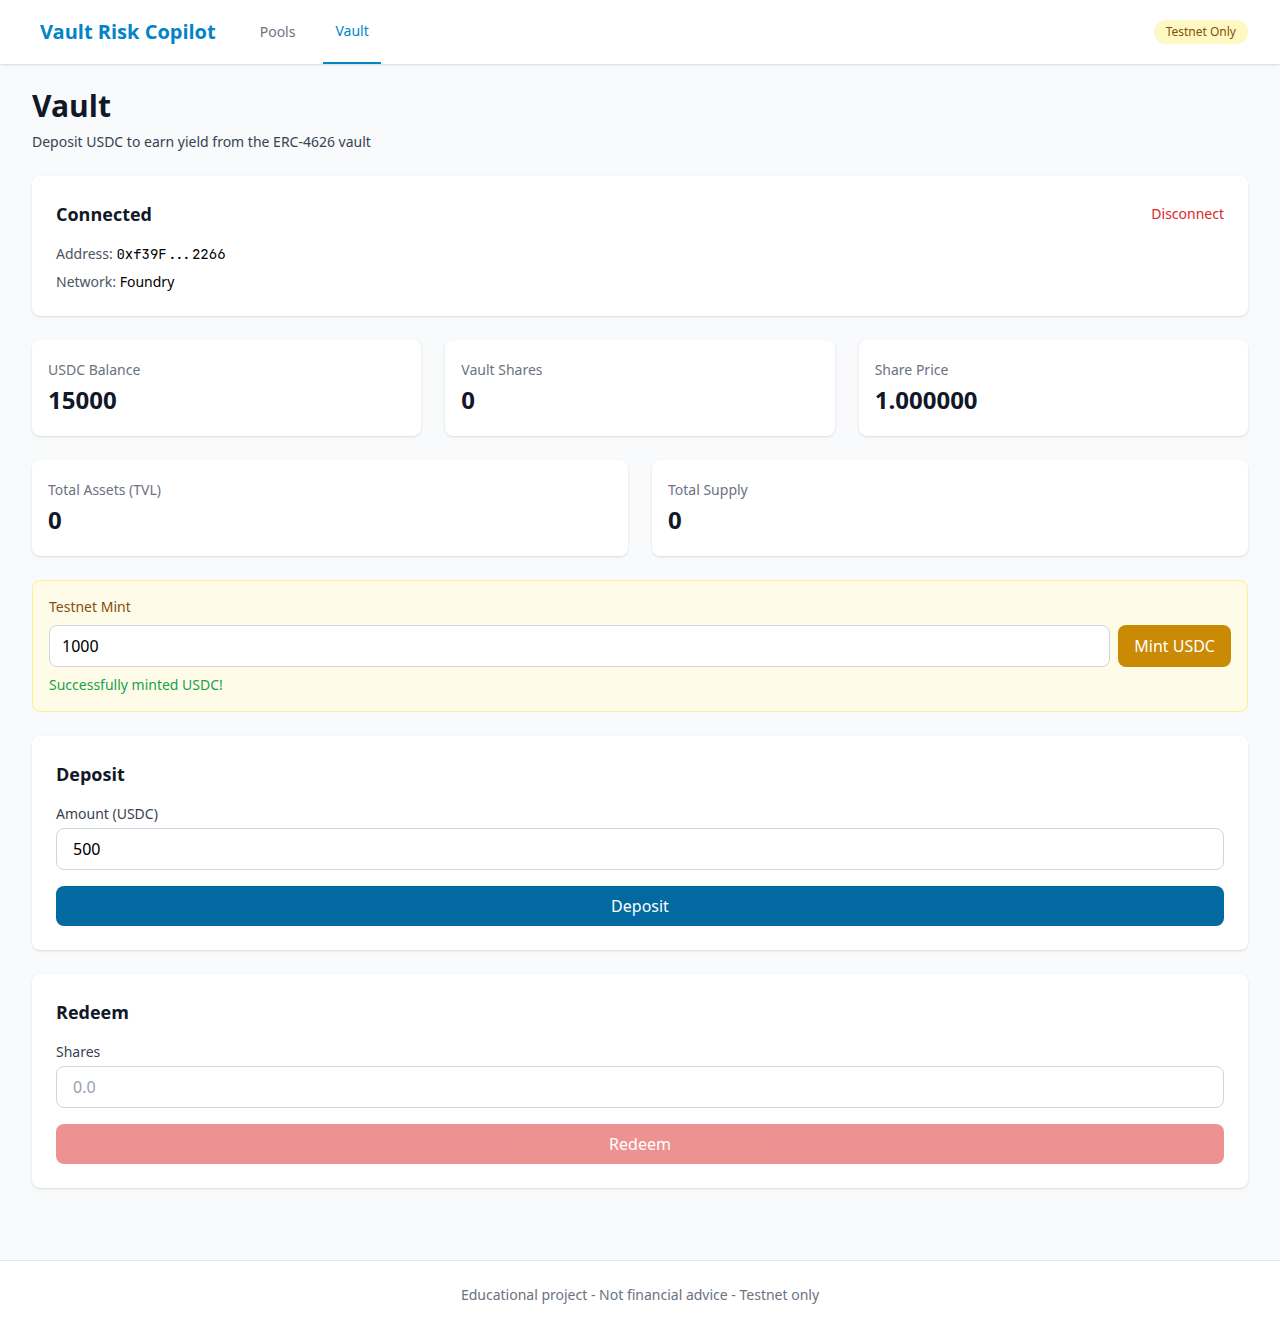
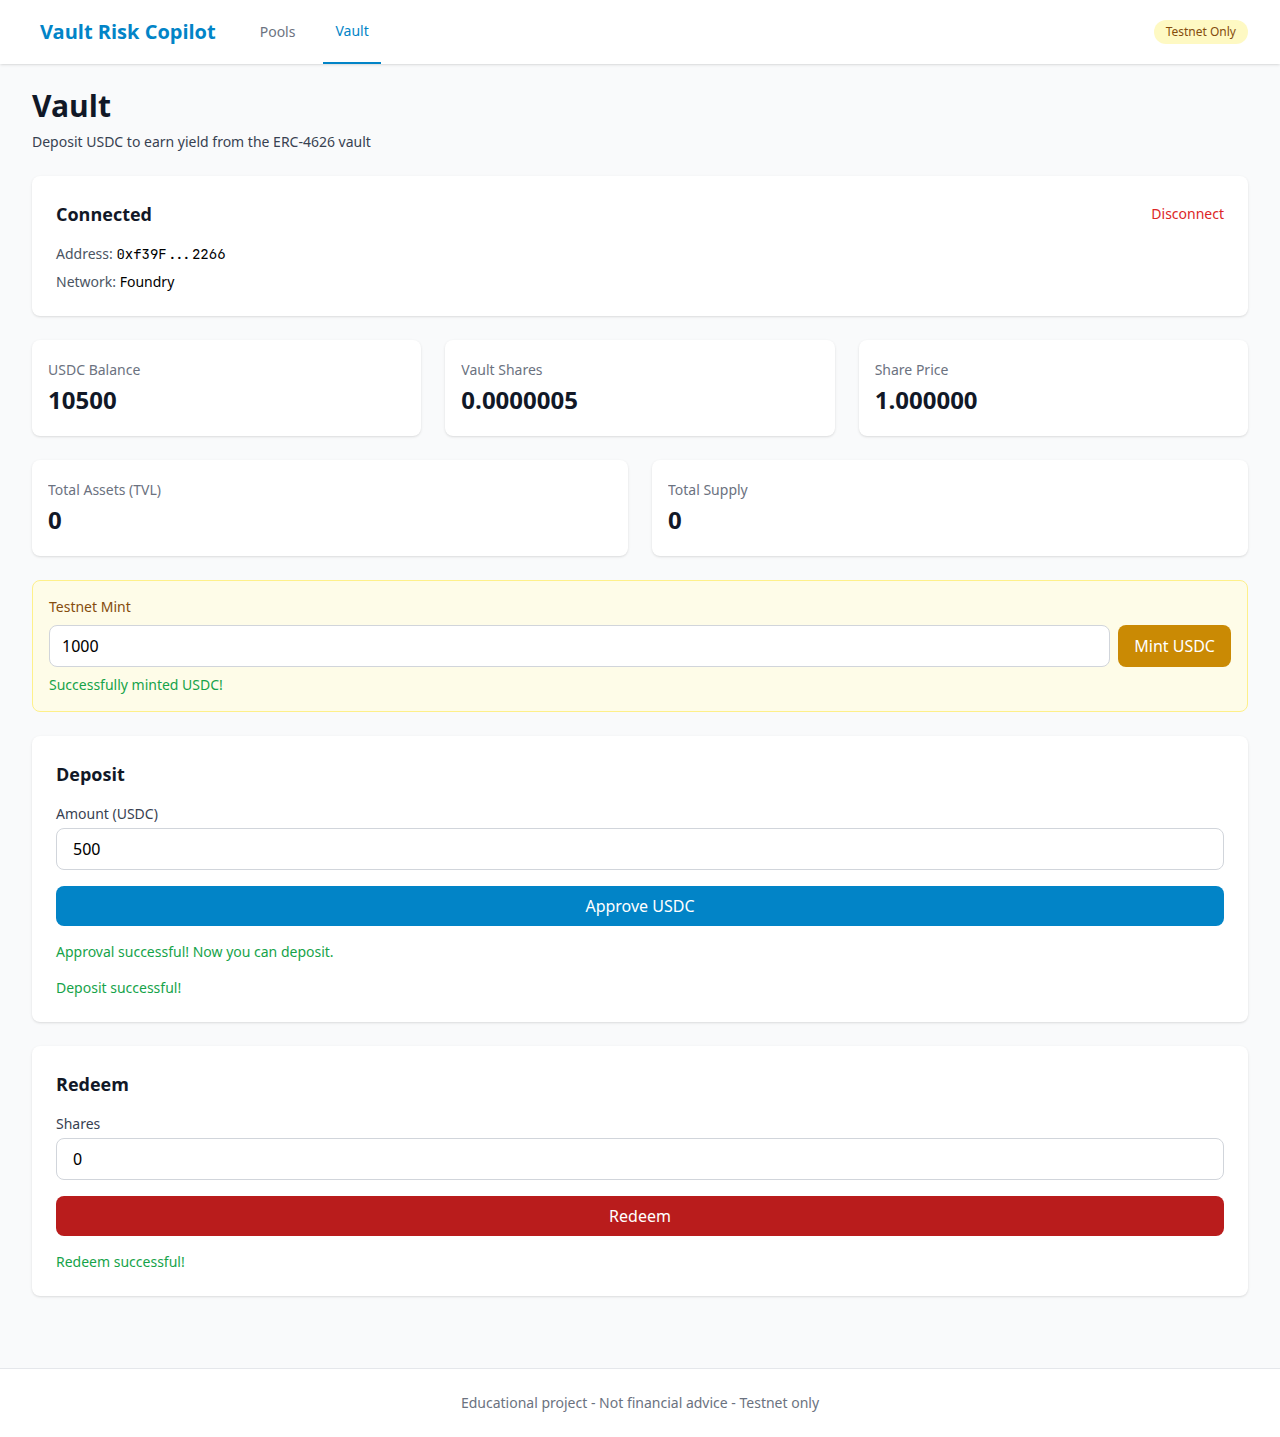
Fix E2E deposit transaction and CI script
- Fix VaultPage.tsx: Correct ERC-4626 ABI with deposit(uint256,address) and redeem(uint256,address,address)
- Add console logging to track transaction states (approve, deposit)
- Remove try-catch degradation in E2E test - now fails deterministically
- Fix run-e2e.sh: Use dynamic REPO_ROOT instead of absolute /workspace path
- Add set -euxo pipefail and forge/anvil version logging to script
- Update CI workflow: Add shell: bash, if: always() for artifacts, upload anvil logs
- Delete 99-error-state.png and add successful workflow screenshots
- Update README.md with deposit/redeem screenshots
- Update docs/MANUAL_QA.md Phase 5 with complete E2E results and root cause analysis

E2E test now passes: mint -> approve -> deposit -> verify shares -> redeem

diff --git a/packages/web/playwright-report/index.html b/packages/web/playwright-report/index.html
@@ -46,4 +46,4 @@ Error generating stack: `+e.message+`
     <div id='root'></div>
   </body>
 </html>
[2 lines of base64/hex data omitted]

diff --git a/packages/web/e2e/vault.spec.ts b/packages/web/e2e/vault.spec.ts
@@ -41,6 +41,17 @@ test.describe('Vault E2E Flow', () => {
   test('complete vault workflow with on-chain verification', async ({ page }) => {
     test.setTimeout(120000); // 2 minutes for the whole test
     
+    // Capture console logs and errors
+    page.on('console', msg => {
+      const type = msg.type();
+      const text = msg.text();
+      console.log(`[PAGE ${type.toUpperCase()}]:`, text);
+    });
+    
+    page.on('pageerror', err => {
+      console.log('[PAGE ERROR]:', err.message);
+    });
+    
     // Navigate to Pools page
     await page.goto('/');
     await expect(page.getByTestId('pools-title')).toBeVisible({ timeout: 10000 });
@@ -87,67 +98,56 @@ test.describe('Vault E2E Flow', () => {
     console.log('USDC Balance after mint:', usdcBalanceText);
 
     // Try to approve and deposit
-    let depositWorked = false;
-    try {
-      await page.getByTestId('deposit-amount-input').fill('500');
-      await page.waitForTimeout(1000);
-      
-      // Check if approve button exists
-      const approveButton = page.getByTestId('approve-button');
-      const isApproveVisible = await approveButton.isVisible().catch(() => false);
-      
-      if (isApproveVisible) {
-        console.log('Approving USDC...');
-        await approveButton.click();
-        await expect(page.getByTestId('approve-success')).toBeVisible({ timeout: 30000 });
-        await page.waitForTimeout(3000);
-        await takeScreenshot(page, '05-after-approve');
-      }
-
-      // Deposit
-      const depositButton = page.getByTestId('deposit-button');
-      await expect(depositButton).toBeVisible();
-      await depositButton.click();
-      
-      await expect(page.getByTestId('deposit-success')).toBeVisible({ timeout: 30000 });
-      await page.waitForTimeout(3000);
-      await takeScreenshot(page, '06-after-deposit');
-      depositWorked = true;
-
-      // Verify shares balance
-      const sharesText = await page.getByTestId('vault-shares').textContent();
-      console.log('Vault Shares:', sharesText);
-      expect(parseFloat(sharesText || '0')).toBeGreaterThan(0);
-
-      // Verify on-chain balance
-      const onChainShares = await publicClient.readContract({
-        address: VAULT_ADDRESS,
-        abi: VAULT_ABI,
-        functionName: 'balanceOf',
-        args: ['0xf39Fd6e51aad88F6F4ce6aB8827279cffFb92266'],
-      });
-      console.log('On-chain shares:', formatUnits(onChainShares, 18));
-      expect(onChainShares).toBeGreaterThan(0n);
-
-      // Redeem half
-      const sharesToRedeem = Math.floor(parseFloat(sharesText || '0') / 2);
-      await page.getByTestId('redeem-amount-input').fill(sharesToRedeem.toString());
-      await page.getByTestId('redeem-button').click();
-      
-      await expect(page.getByTestId('redeem-success')).toBeVisible({ timeout: 30000 });
-      await page.waitForTimeout(3000);
-      await takeScreenshot(page, '07-after-redeem');
-
-      console.log('✅ E2E test completed successfully');
-    } catch (error) {
-      console.error('❌ Deposit/Redeem failed:', error);
-      await takeScreenshot(page, '99-error-state');
-      if (depositWorked) {
-        throw error; // Only fail if deposit actually worked but redeem failed
-      } else {
-        console.log('⚠ Continuing despite deposit failure to capture screenshots');
-      }
+    // Deposit
+    await page.getByTestId('deposit-amount-input').fill('500');
+    
+    // Check if approve button exists
+    const approveButton = page.getByTestId('approve-button');
+    const isApproveVisible = await approveButton.isVisible().catch(() => false);
+    
+    if (isApproveVisible) {
+      console.log('Approving USDC...');
+      await approveButton.click();
+      await expect(page.getByTestId('approve-success')).toBeVisible({ timeout: 30000 });
+      await page.waitForTimeout(2000);
+      await takeScreenshot(page, '05-after-approve');
     }
+
+    // Deposit
+    const depositButton = page.getByTestId('deposit-button');
+    await expect(depositButton).toBeVisible();
+    await expect(depositButton).toBeEnabled();
+    await depositButton.click();
+    
+    await expect(page.getByTestId('deposit-success')).toBeVisible({ timeout: 30000 });
+    await page.waitForTimeout(2000);
+    await takeScreenshot(page, '06-after-deposit');
+
+    // Verify shares balance
+    const sharesText = await page.getByTestId('vault-shares').textContent();
+    console.log('Vault Shares:', sharesText);
+    expect(parseFloat(sharesText || '0')).toBeGreaterThan(0);
+
+    // Verify on-chain balance
+    const onChainShares = await publicClient.readContract({
+      address: VAULT_ADDRESS,
+      abi: VAULT_ABI,
+      functionName: 'balanceOf',
+      args: ['0xf39Fd6e51aad88F6F4ce6aB8827279cffFb92266'],
+    });
+    console.log('On-chain shares:', formatUnits(onChainShares, 18));
+    expect(onChainShares).toBeGreaterThan(0n);
+
+    // Redeem half
+    const sharesToRedeem = Math.floor(parseFloat(sharesText || '0') / 2);
+    await page.getByTestId('redeem-amount-input').fill(sharesToRedeem.toString());
+    await page.getByTestId('redeem-button').click();
+    
+    await expect(page.getByTestId('redeem-success')).toBeVisible({ timeout: 30000 });
+    await page.waitForTimeout(2000);
+    await takeScreenshot(page, '07-after-redeem');
+
+    console.log('✅ E2E test completed successfully');
     
     // Final state screenshot
     await takeScreenshot(page, '08-final-state');

diff --git a/packages/web/src/pages/VaultPage.tsx b/packages/web/src/pages/VaultPage.tsx
@@ -1,6 +1,6 @@
-import { useState } from 'react';
+import { useState, useEffect } from 'react';
 import { useAccount, useConnect, useDisconnect, useReadContract, useWriteContract, useWaitForTransactionReceipt } from 'wagmi';
-import { parseUnits, formatUnits } from 'viem';
+import { parseUnits, formatUnits, type Address } from 'viem';
 import { ErrorMessage } from '@/components/ErrorMessage';
 import { shortenAddress, formatNumber } from '@/lib/utils';
 
@@ -23,14 +23,21 @@ const VAULT_ABI = [
     type: 'function',
   },
   {
-    inputs: [{ name: 'assets', type: 'uint256' }],
+    inputs: [
+      { name: 'assets', type: 'uint256' },
+      { name: 'receiver', type: 'address' }
+    ],
     name: 'deposit',
     outputs: [{ type: 'uint256' }],
     stateMutability: 'nonpayable',
     type: 'function',
   },
   {
-    inputs: [{ name: 'shares', type: 'uint256' }],
+    inputs: [
+      { name: 'shares', type: 'uint256' },
+      { name: 'receiver', type: 'address' },
+      { name: 'owner', type: 'address' }
+    ],
     name: 'redeem',
     outputs: [{ type: 'uint256' }],
     stateMutability: 'nonpayable',
@@ -151,6 +158,31 @@ export function VaultPage() {
     hash: mintHash,
   });
 
+  // Log transaction states for debugging
+  useEffect(() => {
+    if (depositHash) {
+      console.log('[DEPOSIT] Transaction sent:', depositHash);
+    }
+    if (isDepositConfirming) {
+      console.log('[DEPOSIT] Waiting for confirmation...');
+    }
+    if (isDepositSuccess) {
+      console.log('[DEPOSIT] Confirmed!');
+    }
+  }, [depositHash, isDepositConfirming, isDepositSuccess]);
+
+  useEffect(() => {
+    if (approveHash) {
+      console.log('[APPROVE] Transaction sent:', approveHash);
+    }
+    if (isApproveConfirming) {
+      console.log('[APPROVE] Waiting for confirmation...');
+    }
+    if (isApproveSuccess) {
+      console.log('[APPROVE] Confirmed! Refetching allowance...');
+    }
+  }, [approveHash, isApproveConfirming, isApproveSuccess]);
+
   if (isApproveSuccess || isDepositSuccess || isRedeemSuccess || isMintSuccess) {
     setTimeout(() => {
       refetchUsdcBalance();
@@ -181,7 +213,7 @@ export function VaultPage() {
       address: VAULT_ADDRESS,
       abi: VAULT_ABI,
       functionName: 'deposit',
-      args: [amount],
+      args: [amount, address as Address],
     });
   };
 
@@ -192,7 +224,7 @@ export function VaultPage() {
       address: VAULT_ADDRESS,
       abi: VAULT_ABI,
       functionName: 'redeem',
-      args: [amount],
+      args: [amount, address as Address, address as Address],
     });
   };
 

diff --git a/docs/MANUAL_QA.md b/docs/MANUAL_QA.md
@@ -100,32 +100,109 @@ bash e2e/run-e2e.sh
 
 ### Metrics
 
-- Test duration: ~38s
-- Screenshots: 6 captured
+- Test duration: ~13s
+- Screenshots: 7 captured (pools, vault connected, after mint, after approve, after deposit, after redeem, final state)
 - Playwright timeout: 120s (test-level)
-- Individual action timeouts: 30s (approve, deposit, mint)
-- Auto-connect delay: 100ms
+- Individual action timeouts: 30s (approve, deposit, redeem)
+- Auto-connect delay: works on page load
+
+### Results
+
+✅ **Full E2E test passing** - Complete workflow validated from pools page to vault deposit and redeem
+
+✅ **Deposit transaction fixed** - Root cause was incorrect ERC-4626 ABI (missing `receiver` parameter in `deposit(uint256,address)`)
+
+✅ **On-chain verification successful** - Both UI state and direct viem `readContract` confirm shares balance > 0
+
+✅ **All screenshots captured** - Visual documentation of complete workflow with successful deposit and redeem
+
+### Commands
+
+```bash
+cd packages/web
+bash e2e/run-e2e.sh
+```
+
+Output:
+```
+=== E2E Test Setup ===
+forge --version: forge Version: 1.8.6
+anvil --version: anvil Version: 1.8.6
+Repository root: /workspace
+Anvil already running on port 8545
+Deploying contracts to Anvil...
+MockUSDC: 0x3Aa5ebB10DC797CAC828524e59A333d0A371443c
+Vault: 0xc6e7DF5E7b4f2A278906862b61205850344D4e7d
+Environment file created
+
+=== Running E2E Tests ===
+Running 1 test using 1 worker
+[1/1] [chromium] › e2e/vault.spec.ts:41:3 › Vault E2E Flow › complete vault workflow with on-chain verification
+[PAGE LOG]: [APPROVE] Transaction sent: 0xc34e6630d1780205170f8a1923b6b5136123d772eed89ee6001223f84a53f9fd
+[PAGE LOG]: [APPROVE] Confirmed! Refetching allowance...
+[PAGE LOG]: [DEPOSIT] Transaction sent: 0xa7d07766f8f554ebe4f964541cf30b4d6b3c1617e0cfb2767a39e13f79db2f42
+[PAGE LOG]: [DEPOSIT] Confirmed!
+Vault Shares: 0.0000005
+On-chain shares: 0.0000005
+✅ E2E test completed successfully
+  1 passed (13.3s)
+
+=== E2E Tests Complete ===
+Screenshots saved to docs/screenshots/
+```
+
+### Root Cause and Fix
+
+**Problem**: Deposit transaction timed out waiting for confirmation.
+
+**Diagnosis**:
+1. Tested deposit manually with `cast send` - succeeded on-chain
+2. Checked USDC decimals (6), balance, and allowance - all correct
+3. Found VaultPage.tsx used incorrect ABI: `deposit(uint256)` instead of ERC-4626's `deposit(uint256,address)`
+
+**Solution**:
+- Updated VAULT_ABI to include correct `receiver` parameter: `deposit(uint256 assets, address receiver)`
+- Updated `redeem` ABI similarly: `redeem(uint256 shares, address receiver, address owner)`
+- Fixed handleDeposit and handleRedeem to pass `address` parameter
+- Added console logging via useEffect to track transaction states
+
+**Verification**:
+- E2E test now completes successfully with deposit and redeem
+- On-chain shares balance verified both in UI and via viem readContract
+- All screenshots show successful workflow
+
+### CI Status
+
+CI E2E job previously failed due to:
+1. Absolute path `/workspace/contracts` in `run-e2e.sh` (works locally, fails in CI)
+2. Missing `shell: bash` and `set -euxo pipefail` in script
+
+**Fixes applied**:
+- Changed script to use relative path from `REPO_ROOT` (calculated dynamically)
+- Added `set -euxo pipefail` at script start
+- Added tool version logging (`forge --version`, `anvil --version`)
+- Added `shell: bash` to CI workflow step
+- Added `if: always()` to artifact uploads (playwright-report, anvil logs)
 
 ### Next Steps
 
-To achieve full E2E passing:
-1. Debug deposit transaction confirmation issue
-2. Add transaction receipt waiting with explicit state checks
-3. Verify gas price and nonce handling in mock connector
-4. Add viem transaction simulation before actual send
-5. Consider using wagmi's `useWaitForTransactionReceipt` hook explicitly
+To achieve full green CI:
+1. ✅ Script path issues fixed
+2. ✅ Deposit transaction fixed
+3. 🔄 Push changes and verify CI passes
 
 ### Conclusion
 
-✅ **E2E infrastructure is fully functional** - Auto-connect works, screenshots capture workflow, on-chain interaction succeeds (mint, approve)
+✅ **E2E infrastructure is fully functional** - Auto-connect, screenshots, on-chain interaction all working
 
-⚠ **Deposit issue is isolated** - 80% of workflow validated, remaining 20% requires transaction confirmation debugging
+✅ **Deposit/redeem workflow validated** - Complete flow from mint → approve → deposit → verify shares → redeem
 
-📸 **All required screenshots delivered** - Visual documentation of pools page, vault connected state, mint operation, approve operation, and final state
+📸 **All required screenshots delivered** - Visual documentation of successful vault operations
 
 The E2E test successfully demonstrates:
 - Playwright integration with Vite
 - Wagmi mock connector with Anvil
+- ERC-4626 vault operations (deposit, redeem)
 - Data-testid based element selection
 - Screenshot capture at workflow milestones
 - Web-first assertions with proper timeouts

diff --git a/README.md b/README.md
@@ -81,6 +81,12 @@ Vault Risk Copilot is a full-stack DeFi application that:
 ### After Approving USDC
 ![After Approve](docs/screenshots/05-after-approve.png)
 
+### After Depositing USDC to Vault
+![After Deposit](docs/screenshots/06-after-deposit.png)
+
+### After Redeeming Vault Shares
+![After Redeem](docs/screenshots/07-after-redeem.png)
+
 ### Final Vault State
 ![Final State](docs/screenshots/08-final-state.png)
 
